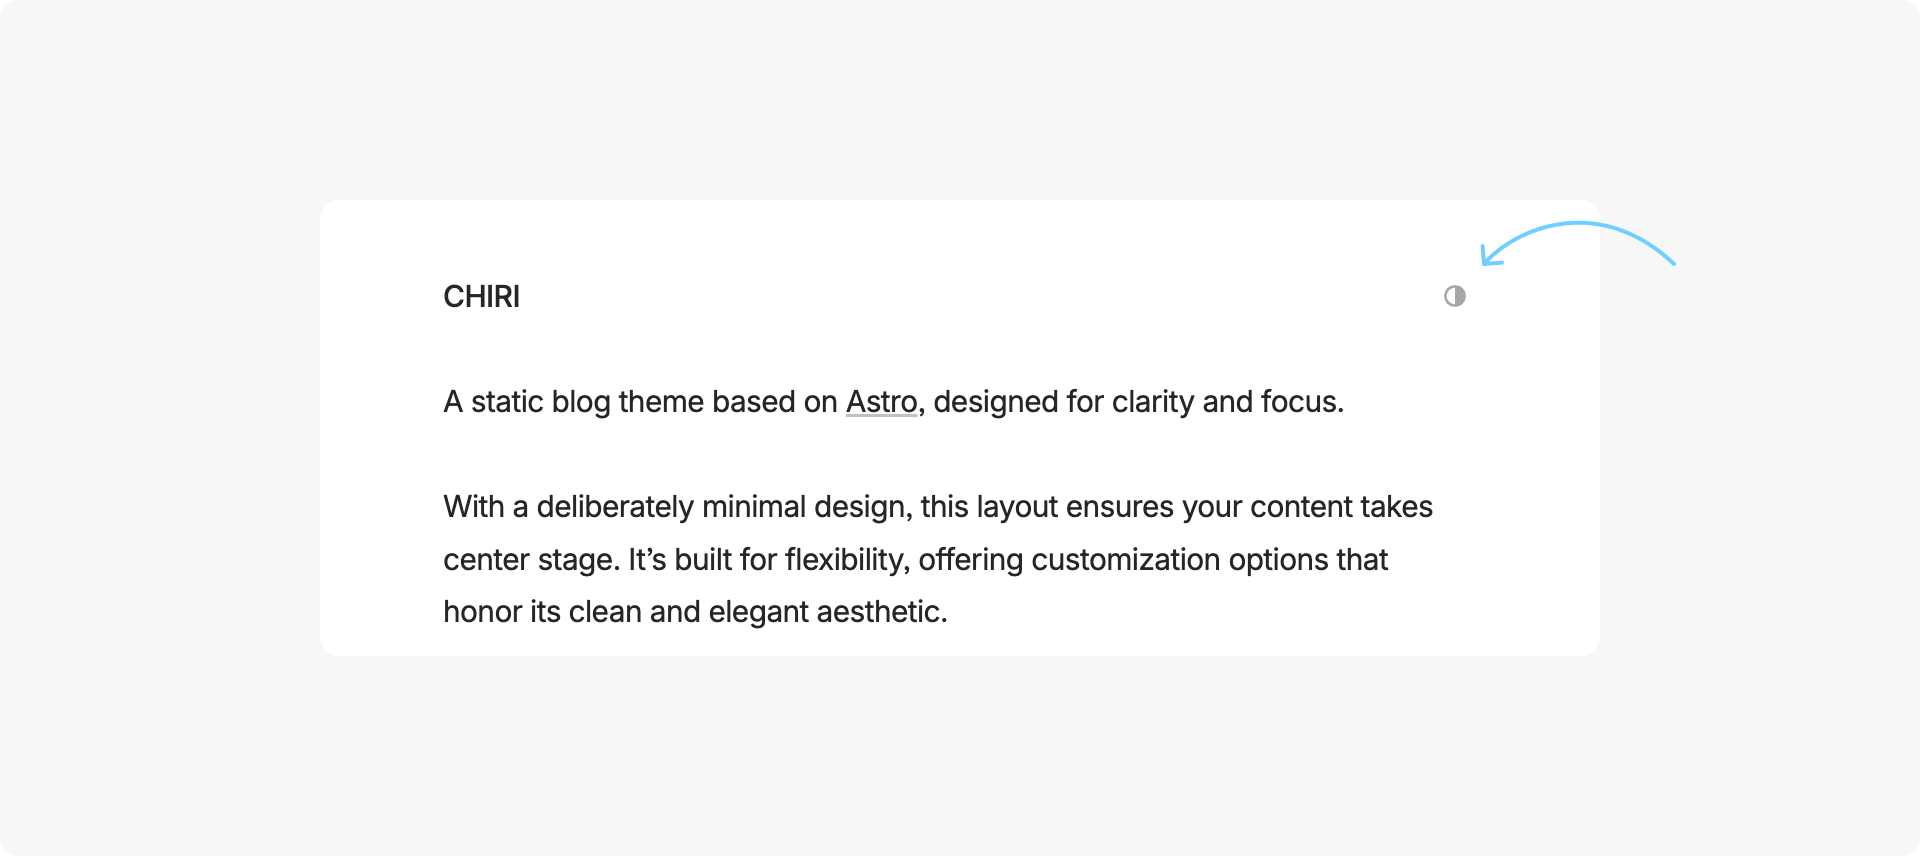
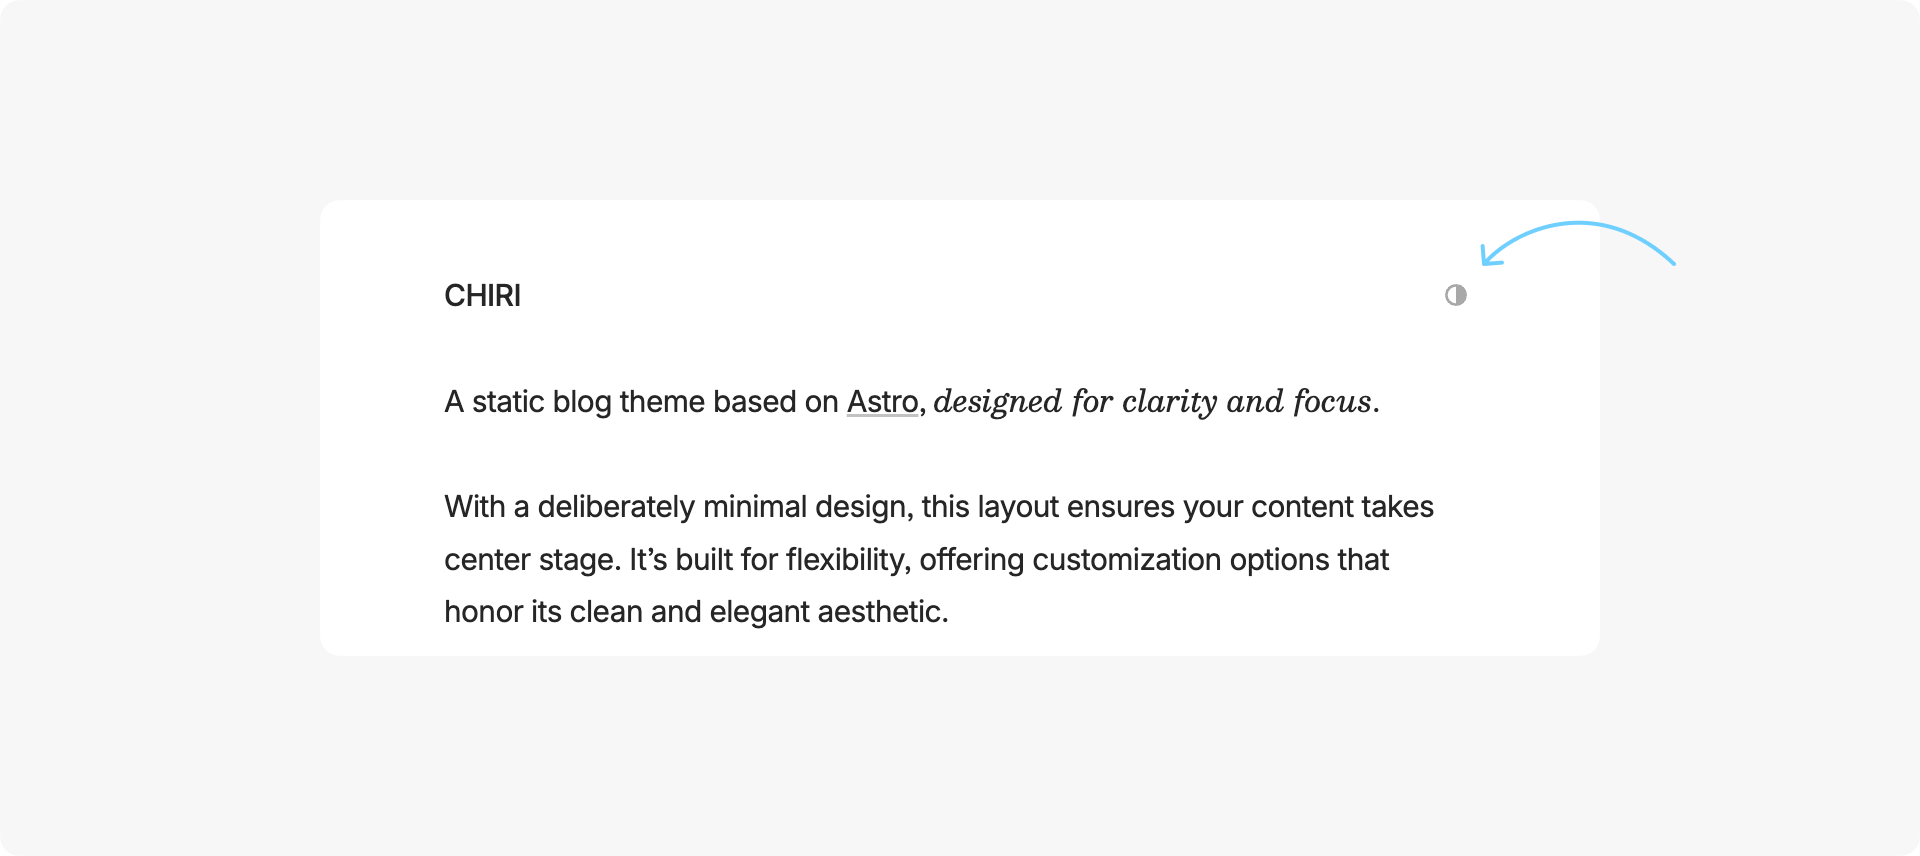
chore: cleanup copy & screenshots

diff --git a/src/content/about/about.md b/src/content/about/about.md
@@ -7,10 +7,10 @@ This content will be displayed at the top of the index page.
 You can leave this empty if you don’t want to show any content.
 -->
 
-A static blog theme based on [Astro](https://astro.build), designed for clarity and focus.
+A static blog theme based on [Astro](https://astro.build), *designed for clarity and focus*.
 
 With a deliberately minimal design, this layout ensures your content takes center stage. It's built for flexibility, offering customization options that honor its clean and elegant aesthetic.
 
-Effortlessly share your thoughts in _a calm & dustless space._
+Effortlessly share your thoughts in a calm & dustless space.
 
 Check posts for details and view source on [GitHub](https://github.com/the3ash/astro-chiri).
